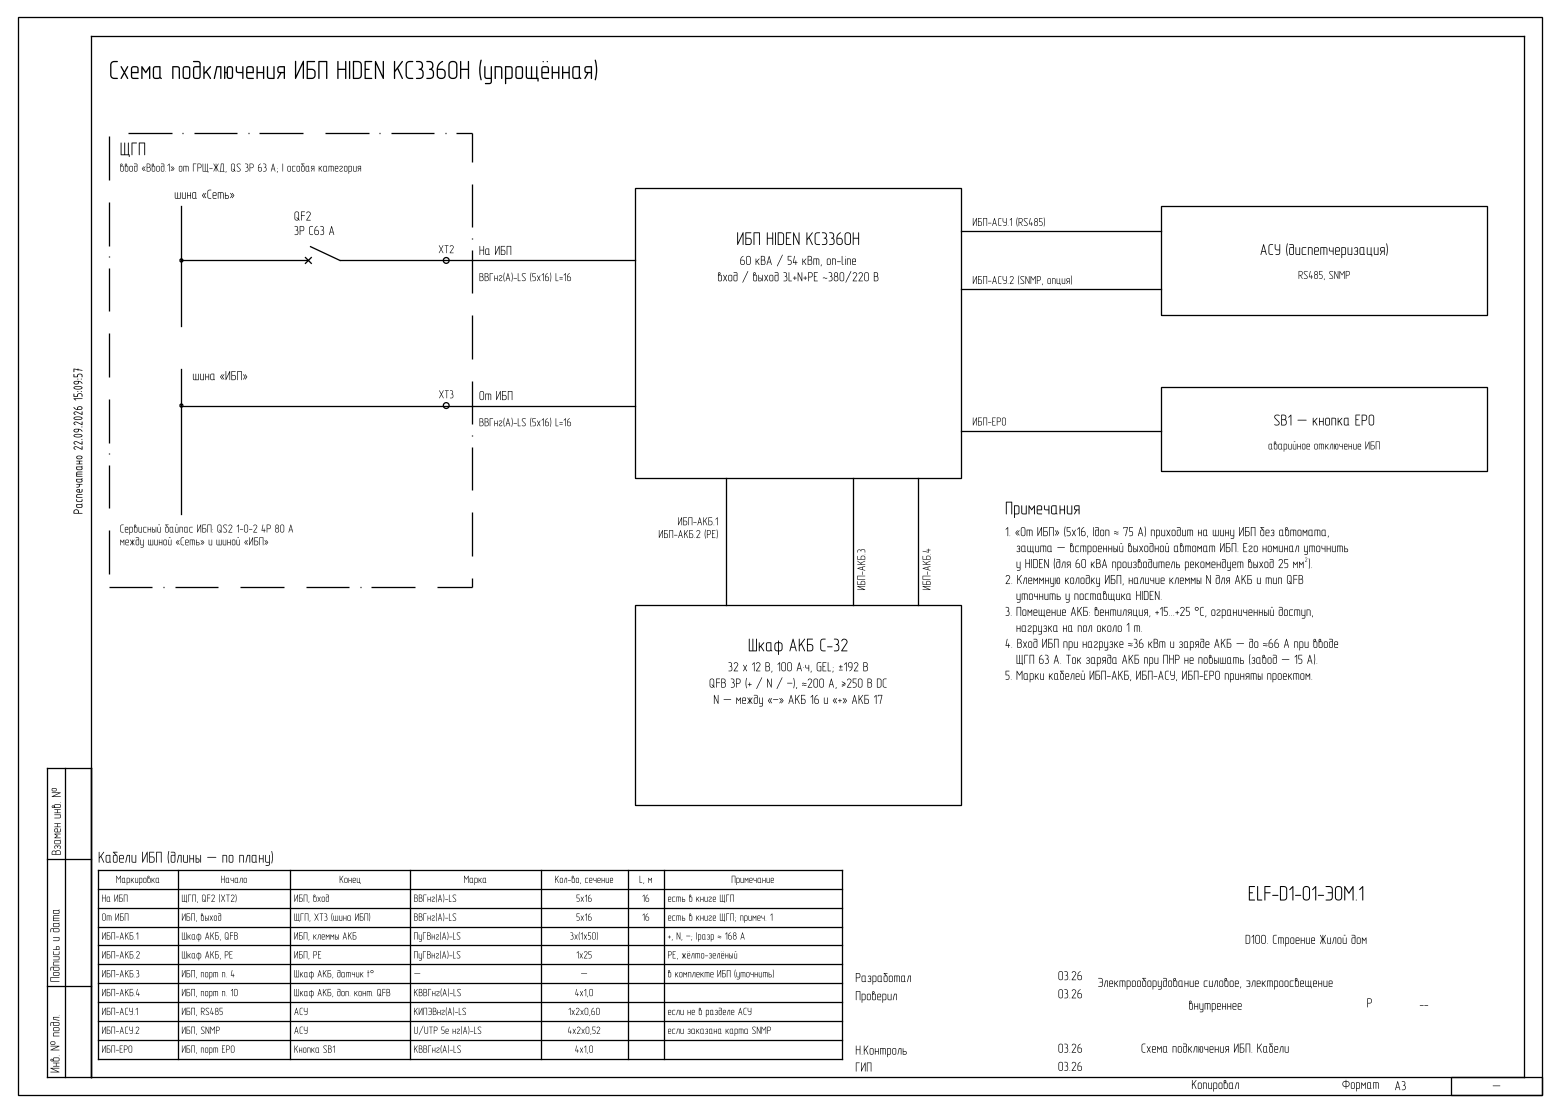
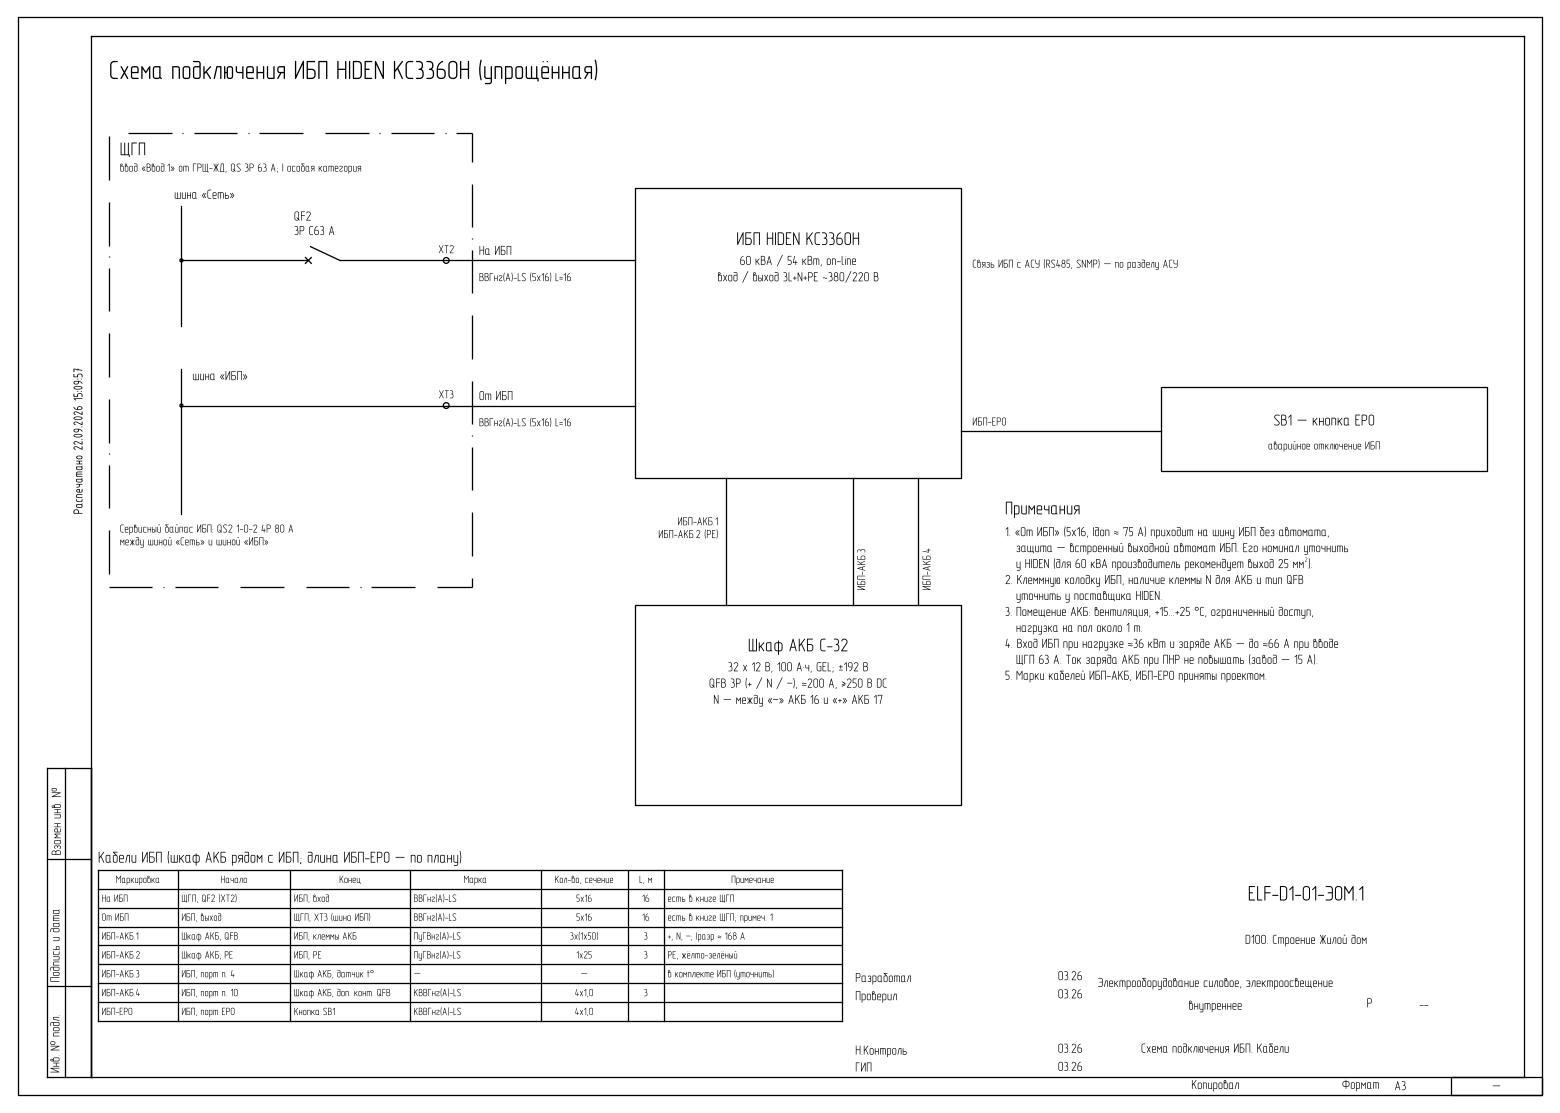
098 ЖД: ИБП-АСУ убраны, длины ИБП-АКБ 3 м

diff --git a/_Разработка/2026-10-21_Узлы_ИБП/gen_ibp_simple.py b/_Разработка/2026-10-21_Узлы_ИБП/gen_ibp_simple.py
@@ -252,14 +252,8 @@ text((233.5, 139), "ИБП-АКБ.3", 2.2, "BL", 90)
 line((248, 170), (248, 135), lw=TW)
 text((251.5, 139), "ИБП-АКБ.4", 2.2, "BL", 90)
 
-# АСУ, кнопка EPO
-rect(315, 215, 405, 245)
-text((360, 233), "АСУ (диспетчеризация)", 3.0, "MC")
-text((360, 226), "RS485, SNMP", 2.2, "MC")
-line((260, 238), (315, 238), lw=TW)
-text((263, 239.5), "ИБП-АСУ.1 (RS485)", 2.2)
-line((260, 222), (315, 222), lw=TW)
-text((263, 223.5), "ИБП-АСУ.2 (SNMP, опция)", 2.2)
+# кнопка EPO (связь с АСУ — не раздел ЭОМ)
+text((263, 228), "Связь ИБП с АСУ (RS485, SNMP) — по разделу АСУ", 2.2)
 rect(315, 172, 405, 195)
 text((360, 186), "SB1 — кнопка EPO", 3.0, "MC")
 text((360, 179), "аварийное отключение ИБП", 2.2, "MC")
@@ -271,12 +265,10 @@ COLS = [("Маркировка", 22), ("Начало", 31), ("Конец", 33), 
 ROWS = [
     ("На ИБП", "ЩГП, QF2 (XT2)", "ИБП, вход", "ВВГнг(А)-LS", "5х16", "16", "есть в книге ЩГП"),
     ("От ИБП", "ИБП, выход", "ЩГП, XT3 (шина ИБП)", "ВВГнг(А)-LS", "5х16", "16", "есть в книге ЩГП; примеч. 1"),
-    ("ИБП-АКБ.1", "Шкаф АКБ, QFB", "ИБП, клеммы АКБ", "ПуГВнг(А)-LS", "3х(1х50)", "", "+, N, –; Iразр ≈ 168 А"),
-    ("ИБП-АКБ.2", "Шкаф АКБ, PE", "ИБП, PE", "ПуГВнг(А)-LS", "1х25", "", "PE, жёлто-зелёный"),
+    ("ИБП-АКБ.1", "Шкаф АКБ, QFB", "ИБП, клеммы АКБ", "ПуГВнг(А)-LS", "3х(1х50)", "3", "+, N, –; Iразр ≈ 168 А"),
+    ("ИБП-АКБ.2", "Шкаф АКБ, PE", "ИБП, PE", "ПуГВнг(А)-LS", "1х25", "3", "PE, жёлто-зелёный"),
     ("ИБП-АКБ.3", "ИБП, порт п. 4", "Шкаф АКБ, датчик t°", "—", "—", "", "в комплекте ИБП (уточнить)"),
-    ("ИБП-АКБ.4", "ИБП, порт п. 10", "Шкаф АКБ, доп. конт. QFB", "КВВГнг(А)-LS", "4х1,0", "", ""),
-    ("ИБП-АСУ.1", "ИБП, RS485", "АСУ", "КИПЭВнг(А)-LS", "1х2х0,60", "", "если не в разделе АСУ"),
-    ("ИБП-АСУ.2", "ИБП, SNMP", "АСУ", "U/UTP 5e нг(А)-LS", "4х2х0,52", "", "если заказана карта SNMP"),
+    ("ИБП-АКБ.4", "ИБП, порт п. 10", "Шкаф АКБ, доп. конт. QFB", "КВВГнг(А)-LS", "4х1,0", "3", ""),
     ("ИБП-EPO", "ИБП, порт EPO", "Кнопка SB1", "КВВГнг(А)-LS", "4х1,0", "", ""),
 ]
 TX, TY, RH = 22.0, 62.0, 5.2
@@ -284,7 +276,7 @@ xs = [TX]
 for _, w in COLS:
     xs.append(xs[-1] + w)
 n = len(ROWS) + 1
-text((TX, TY + 2), "Кабели ИБП (длины — по плану)", 3.0)
+text((TX, TY + 2), "Кабели ИБП (шкаф АКБ рядом с ИБП; длина ИБП-EPO — по плану)", 3.0)
 for i in range(n + 1):
     line((xs[0], TY - i * RH), (xs[-1], TY - i * RH), lw=PW if i in (0, 1, n) else TW)
 for x in xs:
@@ -312,7 +304,7 @@ lines((272, 154), [
     "   нагрузка на пол около 1 т.",
     "4. Вход ИБП при нагрузке ≈36 кВт и заряде АКБ — до ≈66 А при вводе",
     "   ЩГП 63 А. Ток заряда АКБ при ПНР не повышать (завод — 15 А).",
-    "5. Марки кабелей ИБП-АКБ, ИБП-АСУ, ИБП-EPO приняты проектом.",
+    "5. Марки кабелей ИБП-АКБ, ИБП-EPO приняты проектом.",
 ], step=4.4)
 
 L.append('(setvar "CTAB" %s)' % s(LAY1))

diff --git a/_Разработка/2026-10-21_Узлы_ИБП/remove_asu.py b/_Разработка/2026-10-21_Узлы_ИБП/remove_asu.py
@@ -1,0 +1,58 @@
+# Убрать кабели ИБП-АСУ.1/.2 из книги ЩГП (связь с АСУ — не раздел ЭОМ).
+import os
+import win32com.client
+
+p = os.path.join(os.path.dirname(os.path.abspath(__file__)), "xl", "Однолинейка_ЩГП.xlsx")
+NAMES = ("ИБП-АСУ.1", "ИБП-АСУ.2")
+xl = win32com.client.DispatchEx("Excel.Application")
+xl.Visible = False
+xl.DisplayAlerts = False
+xl.AskToUpdateLinks = False
+xl.EnableEvents = False
+try:
+    wb = xl.Workbooks.Open(p, UpdateLinks=0, ReadOnly=False)
+    # «Исходные данные»: вернуть строки к шаблону (копия ближайшей пустой строки-шаблона ниже)
+    ws = wb.Worksheets("Исходные данные")
+    rows = [i for i in range(3, 1001) if ws.Cells(i, 4).Value in NAMES]
+    tpl = next(i for i in range(max(rows) + 1, 1001) if ws.Cells(i, 4).Formula == "" and ws.Cells(i, 3).Formula == "")
+    for i in rows:
+        ws.Rows(tpl).Copy(ws.Rows(i))
+        print("исходные: строка", i, "← шаблон", tpl)
+    xl.CutCopyMode = False
+    # «Разбивка»
+    rz = wb.Worksheets("Разбивка_по_щитам")
+    for i in range(3, 1001):
+        if rz.Cells(i, 8).Value in NAMES:
+            rz.Cells(i, 8).ClearContents()
+            print("разбивка: H%d очищена" % i)
+    # спецификация
+    sc = wb.Worksheets("Спецификация")
+    for i in range(80, 40, -1):
+        if any(n in str(sc.Cells(i, 3).Value or "") for n in NAMES):
+            print("спец: удалена", sc.Cells(i, 2).Value, sc.Cells(i, 3).Value)
+            sc.Rows(i).Delete()
+    # коды марок
+    sp = wb.Worksheets("Справочная")
+    for i in range(4, 52):
+        if sp.Cells(i, 12).Value in ("кипэ", "utp5e"):
+            print("код удалён", sp.Cells(i, 12).Value)
+            sp.Range(sp.Cells(i, 12), sp.Cells(i, 14)).ClearContents()
+    xl.CalculateFull()
+    # КЖ: лишние пустые строки (#Н/Д) перед «Итого» — оставить одну, как было
+    kj = wb.Worksheets("Кабельный_журнал")
+    tot = next(i for i in range(5, 200) if str(kj.Cells(i, 16).Formula).startswith("Итого по кабельному"))
+    empty = [i for i in range(5, tot) if kj.Cells(i, 16).Text in ("#Н/Д", "#N/A")]
+    if len(empty) > 1:
+        kj.Rows("%d:%d" % (empty[1], empty[-1])).Delete()
+        print("КЖ: удалены пустые строки", empty[1:])
+    xl.CalculateFull()
+    tot = next(i for i in range(5, 200) if str(kj.Cells(i, 16).Formula).startswith("Итого по кабельному"))
+    for i in range(5, tot):
+        print("КЖ", i, kj.Cells(i, 16).Text, "|", kj.Cells(i, 19).Text)
+    for i in range(45, 70):
+        if str(sc.Cells(i, 2).Value or "").startswith("2."):
+            print("спец", sc.Cells(i, 2).Value, sc.Cells(i, 3).Value, "=", sc.Cells(i, 8).Text)
+    wb.Save()
+    wb.Close(False)
+finally:
+    xl.Quit()

diff --git a/_Разработка/2026-10-21_Узлы_ИБП/set_len.py b/_Разработка/2026-10-21_Узлы_ИБП/set_len.py
@@ -1,0 +1,45 @@
+# Длины кабелей ИБП-АКБ (шкаф АКБ рядом с ИБП) и пересчёт формул количества в спецификации (ячейки были текстовые).
+import os
+import win32com.client
+
+p = os.path.join(os.path.dirname(os.path.abspath(__file__)), "xl", "Однолинейка_ЩГП.xlsx")
+LEN = {"ИБП-АКБ.1": 3, "ИБП-АКБ.2": 3, "ИБП-АКБ.4": 3}
+xl = win32com.client.DispatchEx("Excel.Application")
+xl.Visible = False
+xl.DisplayAlerts = False
+xl.AskToUpdateLinks = False
+xl.EnableEvents = False
+try:
+    wb = xl.Workbooks.Open(p, UpdateLinks=0, ReadOnly=False)
+    ws = wb.Worksheets("Исходные данные")
+    for i in range(3, 1001):
+        n = ws.Cells(i, 4).Value
+        if n in LEN:
+            ws.Cells(i, 9).Value = LEN[n]
+    sc = wb.Worksheets("Спецификация")
+    print("защита листа:", sc.ProtectContents)
+    # кол-во числом (формат ячеек текстовый, NumberFormat не меняется): 3 м × 1,2 запас КЖ → 4 м
+    QTY = {"2.8": (12, "ИБП-АКБ.1: 3 жилы × 4 м (L=3 м + 20 %)"),
+           "2.9": (4, "ИБП-АКБ.2: L=3 м + 20 %"),
+           "2.10": (4, "ИБП-АКБ.4: L=3 м + 20 %; ИБП-EPO — добавить по плану")}
+    for i in range(45, 70):
+        k = str(sc.Cells(i, 2).Value or "")
+        if k in QTY:
+            sc.Cells(i, 8).Value = QTY[k][0]
+            sc.Cells(i, 10).Value = QTY[k][1]
+    xl.CalculateFull()
+    for i in range(3, 1001):
+        n = ws.Cells(i, 4).Value
+        if n and str(n).startswith("ИБП"):
+            print("исх", i, n, "| I", ws.Cells(i, 9).Text, "| M", ws.Cells(i, 13).Text, "| K", ws.Cells(i, 11).Text)
+    kj = wb.Worksheets("Кабельный_журнал")
+    for i in range(5, 20):
+        if str(kj.Cells(i, 16).Text).startswith("ИБП"):
+            print("КЖ", i, kj.Cells(i, 16).Text, "| L", kj.Cells(i, 23).Text)
+    for i in range(45, 70):
+        if str(sc.Cells(i, 2).Value or "") in ("2.8", "2.9", "2.10"):
+            print("спец", sc.Cells(i, 2).Value, "=", sc.Cells(i, 8).Text)
+    wb.Save()
+    wb.Close(False)
+finally:
+    xl.Quit()

diff --git a/СОСТОЯНИЕ.md b/СОСТОЯНИЕ.md
@@ -70,6 +70,8 @@ git clone https://github.com/MaratAhmetzyanov83/odnolineyka.git
   п. 1.8 — QS2. Лист ИБП: QS2. Схему ЩГП (QS1 → QS2, «3P» → «4P») не правил — DWG был открыт у пользователя.
   Уроки: строки-шаблоны «Исходных данных» содержат заглушку длины `=9+8+7+9+8` и гофру `=M-5-J` — обнулять; КЖ ЩГП был на 10 строк.
   Найдено: сводка «Марка / Длина» КЖ ЩГП не включает ВВГнг(А)-LS (5х16) (Всего 237 без 48 м) — не правил.
+- По пользователю: ИБП-АСУ — не ЭОМ, убраны из книги (резерв `…_124109_без_АСУ_ЩГП`) и с листа. Шкаф АКБ рядом с ИБП: ИБП-АКБ.1, .2, .4 — I = 3 м;
+  спецификация 2.8 = 12 м (3 жилы), 2.9 = 4, 2.10 = 4 — числом (формула в текстовой ячейке не считалась). Длина ИБП-EPO — не задана.
 - Новый файл `…\24_ELF-D1-01-ЭОМ\Однолинейки\Узлы ИБП HIDEN KC3360H.dwg` (сервер): листы «Узел 1 ИБП» (однолинейная ГРЩ → QF1 → W1 → ИБП A1
   с Q1–Q3, выпрямителем, инвертором, статическим байпасом → QF2 → W2 → ЩГП/ЩБП; слаботочка W4–W8 по портам рис. 3-1) и «Узел 2 АКБ»
   (GB1…GB32, N между GB16/GB17, QFB 3P, W3, PE, BK1, доп. контакт QFB). Рамка и штамп — из листа ЩСПЗ-ЖД (A3, xref «Штамп»), рисовано в листе.
@@ -482,7 +484,7 @@ git clone https://github.com/MaratAhmetzyanov83/odnolineyka.git
 ## Дальше (по порядку, каждый шаг — проверка пользователем)
 
 0ib. **Узел ИБП (098) — пользователю:** открыть `Однолинейки\Узлы ИБП HIDEN KC3360H.dwg` (1 лист), проверить марки W3–W8, номер листа («--»).
-   Длины кабелей ИБП — в «Исходные данные» ЩГП, ст. I (строки 28–33); схема ЩГП: переименовать байпас в QS2 и «3P» → «4P».
+   Длина ИБП-EPO — в «Исходные данные» ЩГП, I31, и +в спецификацию 2.10; схема ЩГП: байпас QS1 → QS2, «3P» → «4P».
 
 0m. **ГРЩ-ЖД — пользователю:** открыть `Компоновки.dwg` (версия с АВР уже на месте).
    Проверить лист 108, спецификацию (37 поз.), номер листа. На однолинейке надпись «контроллер по ТУ изготовителя НКУ» — заменить на ПР200.
